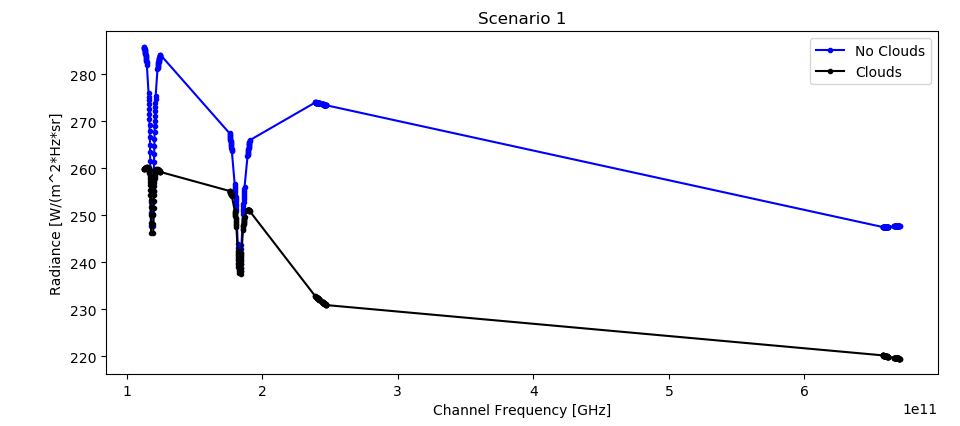
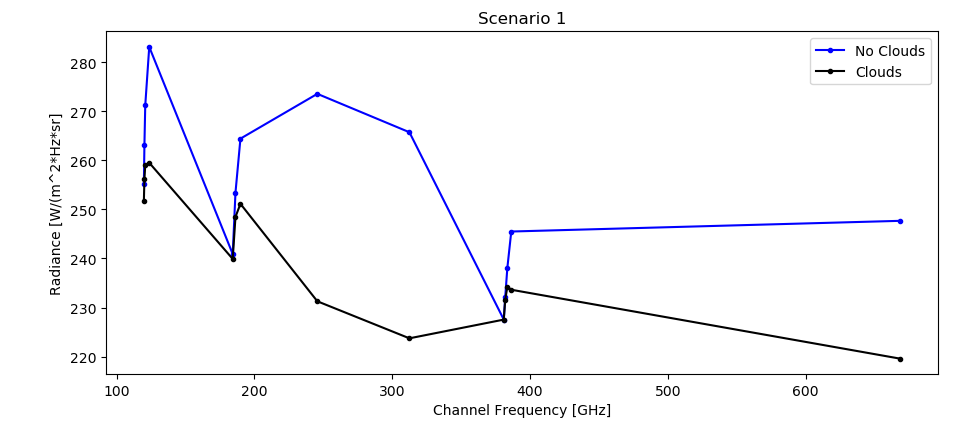
cleaned up plots for new simulation

diff --git a/ENTICE_INS/ENTICE_cloud_plots.py b/ENTICE_INS/ENTICE_cloud_plots.py
@@ -29,6 +29,10 @@ n = 49
 #Read in the Simulation Data
 ENTICE_C = myxmlreader("C:/Users/kbayj/Documents/JPL/ENTICE_ARTS/ENTICE_INS/CloudCase.xml")
 ENTICE_NC = myxmlreader("C:/Users/kbayj/Documents/JPL/ENTICE_ARTS/ENTICE_INS/NoCloudCase.xml")
+array1 = np.array(ENTICE_NC)
+array2 = np.array(ENTICE_C)
+subtracted_array = np.subtract(array1, array2)
+ENTICE_D = list(subtracted_array)
 FGRID = myxmlreader("C:/Users/kbayj/Documents/JPL/ENTICE_ARTS/ENTICE_INS/FGRID.xml")
 f_grid = np.divide(FGRID,1e9)
 P = myxmlreader("C:/Users/kbayj/Documents/JPL/ENTICE_ARTS/ENTICE_INS/pressure.xml")
@@ -52,6 +56,16 @@ plt.title('Scenario 1')
 plt.plot(f_grid, ENTICE_NC, c='b', marker= '.')
 plt.plot(f_grid, ENTICE_C, c='k', marker= '.')
 plt.legend(['No Clouds','Clouds'])
+fig.tight_layout()
+
+# Figure 1
+fig = plt.figure()
+#plt.xticks(freq_str,rotation=65)
+plt.xlabel('Channel Frequency [GHz]')
+plt.ylabel('Radiance [W/(m^2*Hz*sr]')
+plt.title('Difference between No Clouds and Clouds')
+plt.plot(f_grid, ENTICE_D, c='c', marker= '.')
+#plt.legend(['No Clouds','Clouds'])
 fig.tight_layout()
 
 fig, ax1 = plt.subplots()
@@ -80,15 +94,15 @@ plt.legend(loc='upper right',handles=[blue_line, cyan_line])
 plt.tight_layout()
 
 fig = plt.figure()
-plt.semilogx(vmr1, z, c='b')
-plt.semilogx(vmr2, z, c='g')
-plt.semilogx(vmr3, z, c='r')
+plt.semilogx(vmr1, z, c='m')
+plt.semilogx(vmr2, z, c='r')
+plt.semilogx(vmr3, z, c='b')
 plt.xlabel('VMR Data [%]')
 plt.ylabel('Altitude [m]')
 #plt.ylim((0, 20000))
-vmr1_line = mlines.Line2D([], [], color='b', label='vmr1')
-vmr2_line = mlines.Line2D([], [], color='g', label='vmr2')
-vmr3_line = mlines.Line2D([], [], color='r', label='vmr3')
+vmr1_line = mlines.Line2D([], [], color='m', label='N2')
+vmr2_line = mlines.Line2D([], [], color='r', label='O2')
+vmr3_line = mlines.Line2D([], [], color='b', label='H20')
 plt.legend(handles=[vmr1_line, vmr2_line, vmr3_line])
 plt.tight_layout()
 
